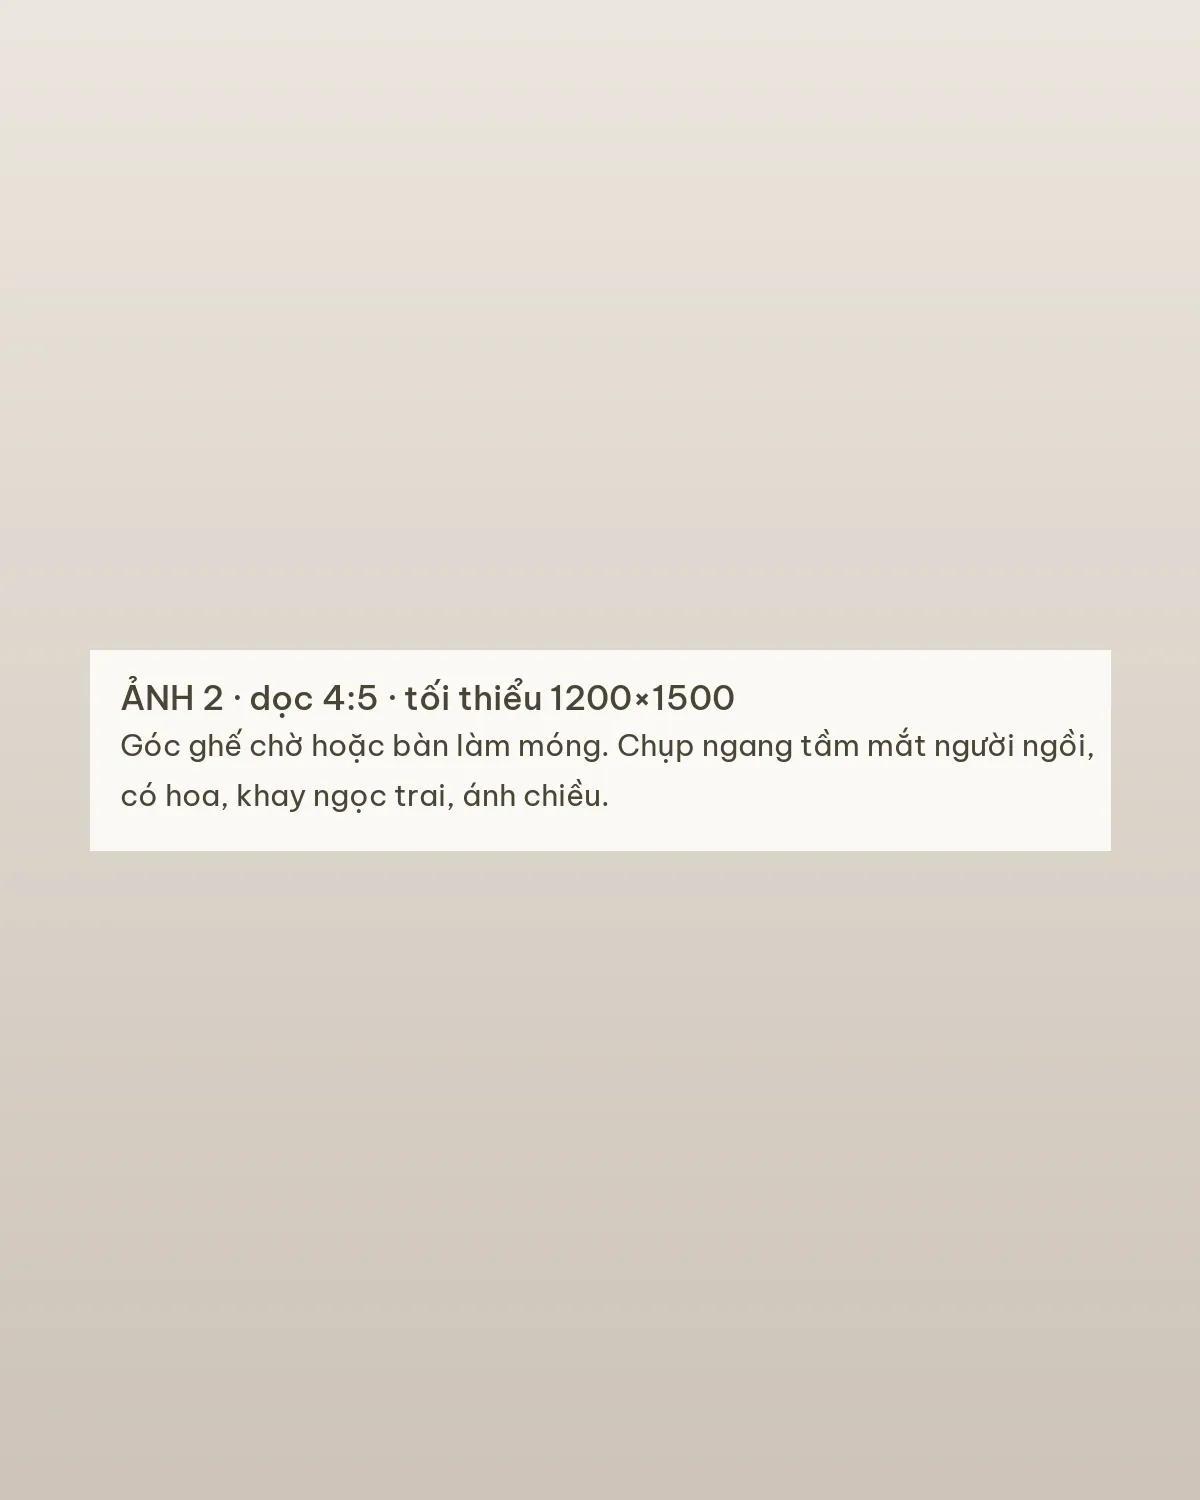
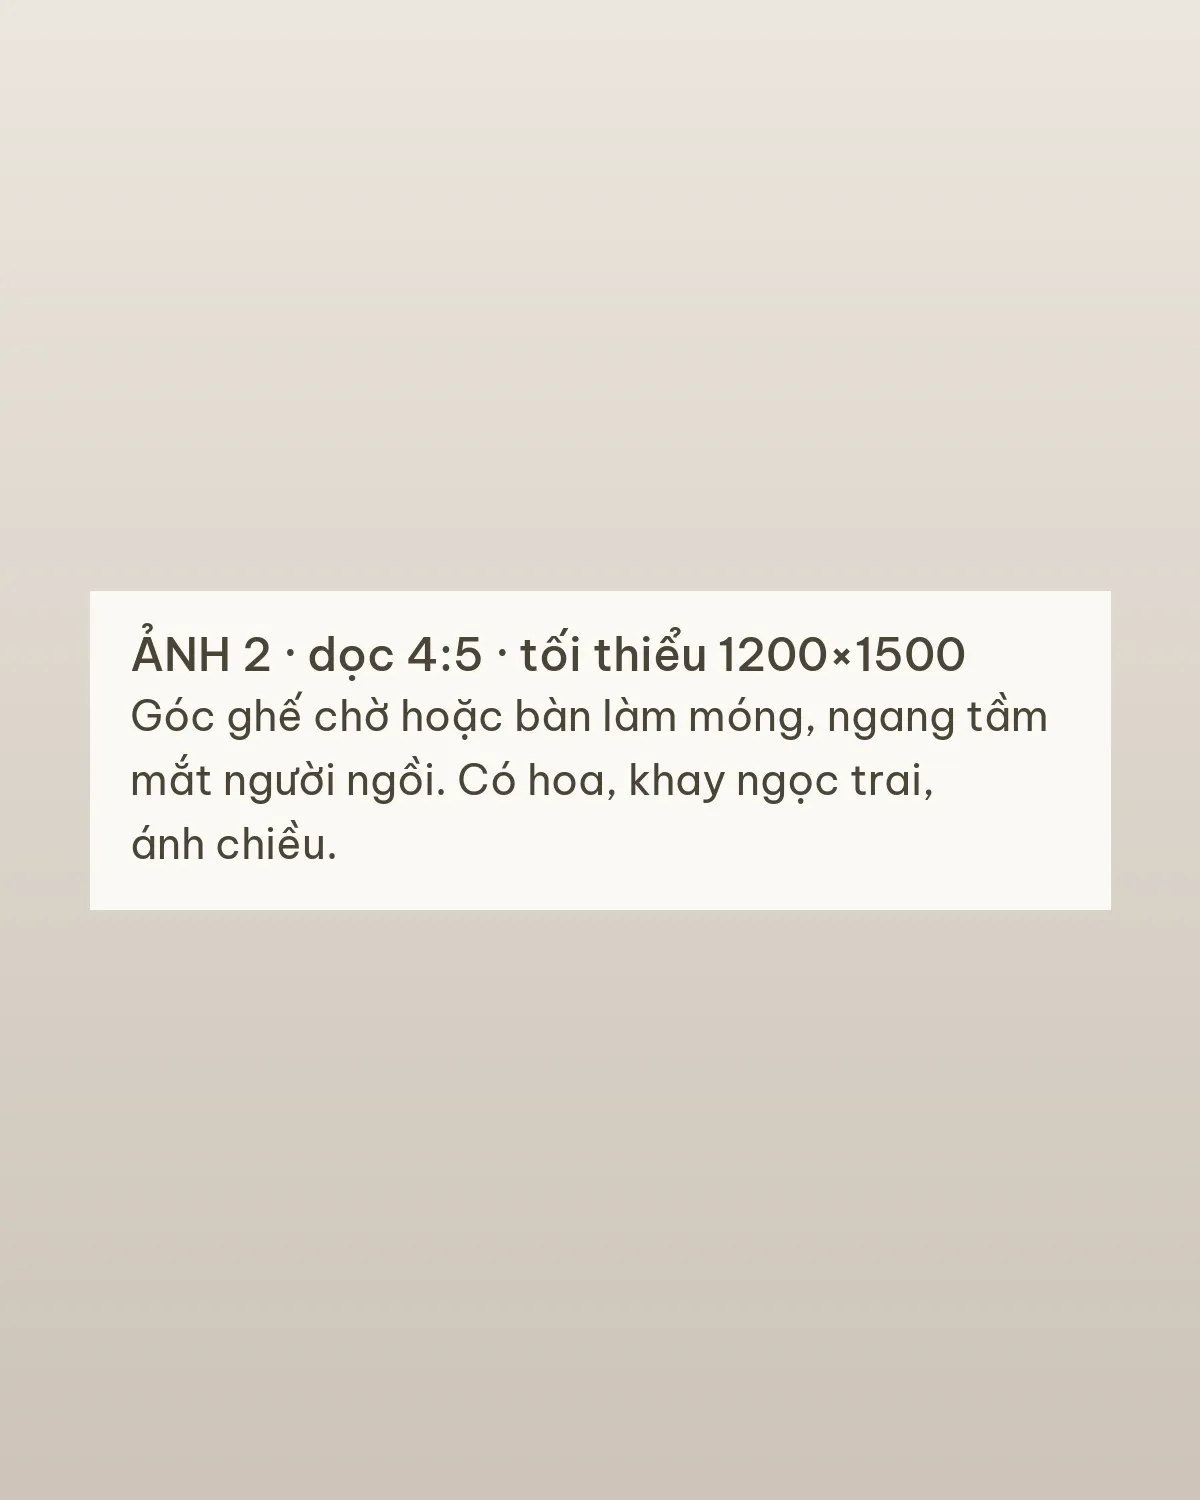
Our Story dung 3 anh doc 4:5, hieu ung nhanh hon ~30%
- Our Story: 3 anh doc cung ty le 4:5 (story-1/2/3.webp, 1200x1500).
  Desktop: anh toan canh lon ben trai, chu tren ben phai, 2 anh nho dan
  bac thang duoi chu. Mobile: lon trai + nho phai, roi anh vua lech phai.
- Token motion: reveal 1.1s, slow 1.5s, hover .45s, ui .3s, nacre 4s,
  card .8s / tra ve .6s, stagger 100ms. Giu easing sine.

Changed region(s): [[0.0617, 0.368, 0.925, 0.6133]]

diff --git a/src/styles/main.css b/src/styles/main.css
@@ -100,11 +100,8 @@
 }
 
 /* ================= OUR STORY ================= */
-.story {
-  padding: var(--sec) var(--gutter) 56px; /* chua cho o anh 3 thong xuong duoi (mobile) */
-  display: grid; grid-template-columns: repeat(6, 1fr); column-gap: 12px; align-items: start;
-}
-.story__text { grid-column: 1 / -1; margin-bottom: 48px; }
+.story { padding: var(--sec) var(--gutter) 0; }
+.story__text { margin-bottom: 48px; }
 .story__label { margin: 0 0 18px; font-family: var(--f-en); font-style: italic; font-size: 15px; color: var(--moss); }
 .story__title {
   margin: 0; font-family: var(--f-caslon); font-weight: 400;
@@ -114,31 +111,39 @@
 .story__body { margin: 24px 0 0; max-width: 46ch; font-size: 15px; }
 .story__facts { list-style: none; margin: 28px 0 0; padding: 18px 0 0; border-top: 1px solid var(--line); display: grid; gap: 6px; font-size: 13px; color: var(--ink); max-width: 46ch; }
 
-/* 3 o anh: khac ty le, lech nhip voi khoi chu. Anh that chep de vao public/images/story/ */
-.story__ph { position: relative; margin: 0; overflow: hidden; background: var(--mist); }
-.story__ph img { position: absolute; left: 0; top: -7%; width: 100%; height: 114%; object-fit: cover; }
-.story__ph--1 { grid-column: 1 / -1; aspect-ratio: 3 / 2; }
-.story__ph--2 { grid-column: 1 / 5; aspect-ratio: 4 / 5; margin-top: 12px; }
-.story__ph--3 { grid-column: 5 / 7; aspect-ratio: 1; align-self: end; margin-bottom: -56px; }
+/* 3 anh doc cung ty le 4:5, nho dan: toan canh -> goc ngoi -> chi tiet.
+   Desktop: 1 hang 5/4/3 cot, can day. Mobile: lon trai + nho phai, roi vua lech phai (bac thang). */
+.story__photos { display: grid; grid-template-columns: repeat(6, 1fr); gap: 12px; align-items: end; }
+.story__ph { position: relative; margin: 0; overflow: hidden; background: var(--mist); aspect-ratio: 4 / 5; }
+.story__ph img { position: absolute; left: 0; top: -6%; width: 100%; height: 112%; object-fit: cover; }
+.story__ph--1 { grid-column: 1 / 5; }
+.story__ph--2 { grid-column: 5 / 7; }
+.story__ph--3 { grid-column: 3 / 7; grid-row: 2; }
 
 @media (min-width: 768px) {
   .story__facts { display: flex; flex-wrap: wrap; gap: 6px 0; max-width: none; }
   .story__facts li + li::before { content: "·"; margin: 0 14px; color: var(--deco); }
 }
+/* Desktop: trai trang kieu tap chi. Anh toan canh lon ben trai, chu tren ben phai,
+   2 anh nho dan bac thang ngay duoi chu, tat ca can day voi anh lon. */
 @media (min-width: 1024px) {
-  .story { grid-template-columns: repeat(12, 1fr); column-gap: 24px; }
-  .story__text { grid-column: 1 / 6; grid-row: 1; margin: 48px 0 0; }
-  .story__ph--1 { grid-column: 7 / 13; grid-row: 1; }
-  .story__ph--2 { grid-column: 2 / 6; grid-row: 2; margin-top: 96px; }
-  .story__ph--3 { grid-column: 8 / 11; grid-row: 2; align-self: start; margin: 200px 0 0; }
+  .story { display: grid; grid-template-columns: repeat(12, 1fr); column-gap: 24px; align-items: start; }
+  .story__photos { display: contents; }
+  .story__text { grid-column: 8 / 13; grid-row: 1; margin: 0 0 56px; }
+  .story__title { font-size: clamp(52px, 4.6vw, 72px); }
+  .story__facts { display: grid; gap: 6px; }
+  .story__facts li + li::before { content: none; }
+  .story__ph--1 { grid-column: 1 / 7; grid-row: 1 / 3; align-self: end; }
+  .story__ph--2 { grid-column: 8 / 11; grid-row: 2; align-self: end; }
+  .story__ph--3 { grid-column: 11 / 13; grid-row: 2; align-self: end; }
 }
 
 /* Anh troi rat cham theo cuon (CSS scroll-driven, khong dung scroll listener) */
 @supports (animation-timeline: view()) {
   .story__ph img { animation: drift linear both; animation-timeline: view(); animation-range: cover; }
   .story__ph--1 img { --drift: 3%; }
-  .story__ph--2 img { --drift: 5%; }
-  .story__ph--3 img { --drift: 4%; }
+  .story__ph--2 img { --drift: 4%; }
+  .story__ph--3 img { --drift: 5%; }
 }
 @keyframes drift { from { transform: translateY(calc(var(--drift, 4%) * -1)); } to { transform: translateY(var(--drift, 4%)); } }
 

diff --git a/index.html b/index.html
@@ -54,16 +54,18 @@
           <li>Tư vấn và báo giá trước khi làm</li>
         </ul>
       </div>
-      <!-- Anh khong gian: chep de file trong public/images/story/ (giu ten story-1/2/3.webp) -->
-      <figure class="story__ph story__ph--1" data-reveal="fade" style="--delay: calc(var(--stagger) * 2)">
-        <img src="/images/story/story-1.webp" alt="Toàn cảnh studio The Nail Story" width="1800" height="1200" loading="lazy" decoding="async" />
-      </figure>
-      <figure class="story__ph story__ph--2" data-reveal="fade" style="--delay: calc(var(--stagger) * 4)">
-        <img src="/images/story/story-2.webp" alt="Góc bàn làm móng tại studio" width="1200" height="1500" loading="lazy" decoding="async" />
-      </figure>
-      <figure class="story__ph story__ph--3" data-reveal="fade" style="--delay: calc(var(--stagger) * 6)">
-        <img src="/images/story/story-3.webp" alt="Cận cảnh kệ màu và đồ nghề" width="1200" height="1200" loading="lazy" decoding="async" />
-      </figure>
+      <!-- 3 anh doc 4:5: chep de file trong public/images/story/ (giu ten story-1/2/3.webp) -->
+      <div class="story__photos">
+        <figure class="story__ph story__ph--1" data-reveal="fade" style="--delay: calc(var(--stagger) * 2)">
+          <img src="/images/story/story-1.webp" alt="Toàn cảnh studio The Nail Story" width="1200" height="1500" loading="lazy" decoding="async" />
+        </figure>
+        <figure class="story__ph story__ph--2" data-reveal="fade" style="--delay: calc(var(--stagger) * 3)">
+          <img src="/images/story/story-2.webp" alt="Góc ghế chờ và bàn làm móng tại studio" width="1200" height="1500" loading="lazy" decoding="async" />
+        </figure>
+        <figure class="story__ph story__ph--3" data-reveal="fade" style="--delay: calc(var(--stagger) * 4)">
+          <img src="/images/story/story-3.webp" alt="Cận cảnh kệ màu và đồ nghề" width="1200" height="1500" loading="lazy" decoding="async" />
+        </figure>
+      </div>
     </section>
 
     <!-- ========== OUR SERVICES: 2 STUDIO ========== -->

diff --git a/src/styles/base.css b/src/styles/base.css
@@ -30,14 +30,15 @@
 
   /* ---- Motion tokens: cham, mem. Moi thoi luong / easing tren trang lay tu day ---- */
   --ease-soft: cubic-bezier(.37, 0, .63, 1); /* ease-in-out sine: hien ra, chuyen canh */
-  --dur-reveal: 1.6s;   /* chu / khoi hien ra khi cuon */
-  --dur-slow: 2.2s;     /* anh, mat na anh, hero */
-  --dur-hover: .6s;     /* hover, doi noi dung nho */
-  --dur-ui: .35s;       /* phan hoi bam nut, focus input */
-  --dur-nacre: 5.5s;    /* foil xa cu tren tagline hero */
-  --dur-card: 1.1s;     /* collection: card bay di / card sau hien len */
-  --dur-card-back: .9s; /* collection: card tra ve cho cu */
-  --stagger: 140ms;     /* do tre giua cac tu / phan tu */
+  /* v2 (Ryan: "on nhung cham qua"): rut ~30%, giu easing sine */
+  --dur-reveal: 1.1s;   /* chu / khoi hien ra khi cuon */
+  --dur-slow: 1.5s;     /* anh, mat na anh, hero */
+  --dur-hover: .45s;    /* hover, doi noi dung nho */
+  --dur-ui: .3s;        /* phan hoi bam nut, focus input */
+  --dur-nacre: 4s;      /* foil xa cu tren tagline hero */
+  --dur-card: .8s;      /* collection: card bay di / card sau hien len */
+  --dur-card-back: .6s; /* collection: card tra ve cho cu */
+  --stagger: 100ms;     /* do tre giua cac tu / phan tu */
   --rise: 14px;         /* quang dich chuyen toi da khi hien ra */
   --blur-in: 4px;
   --gutter: 20px;
